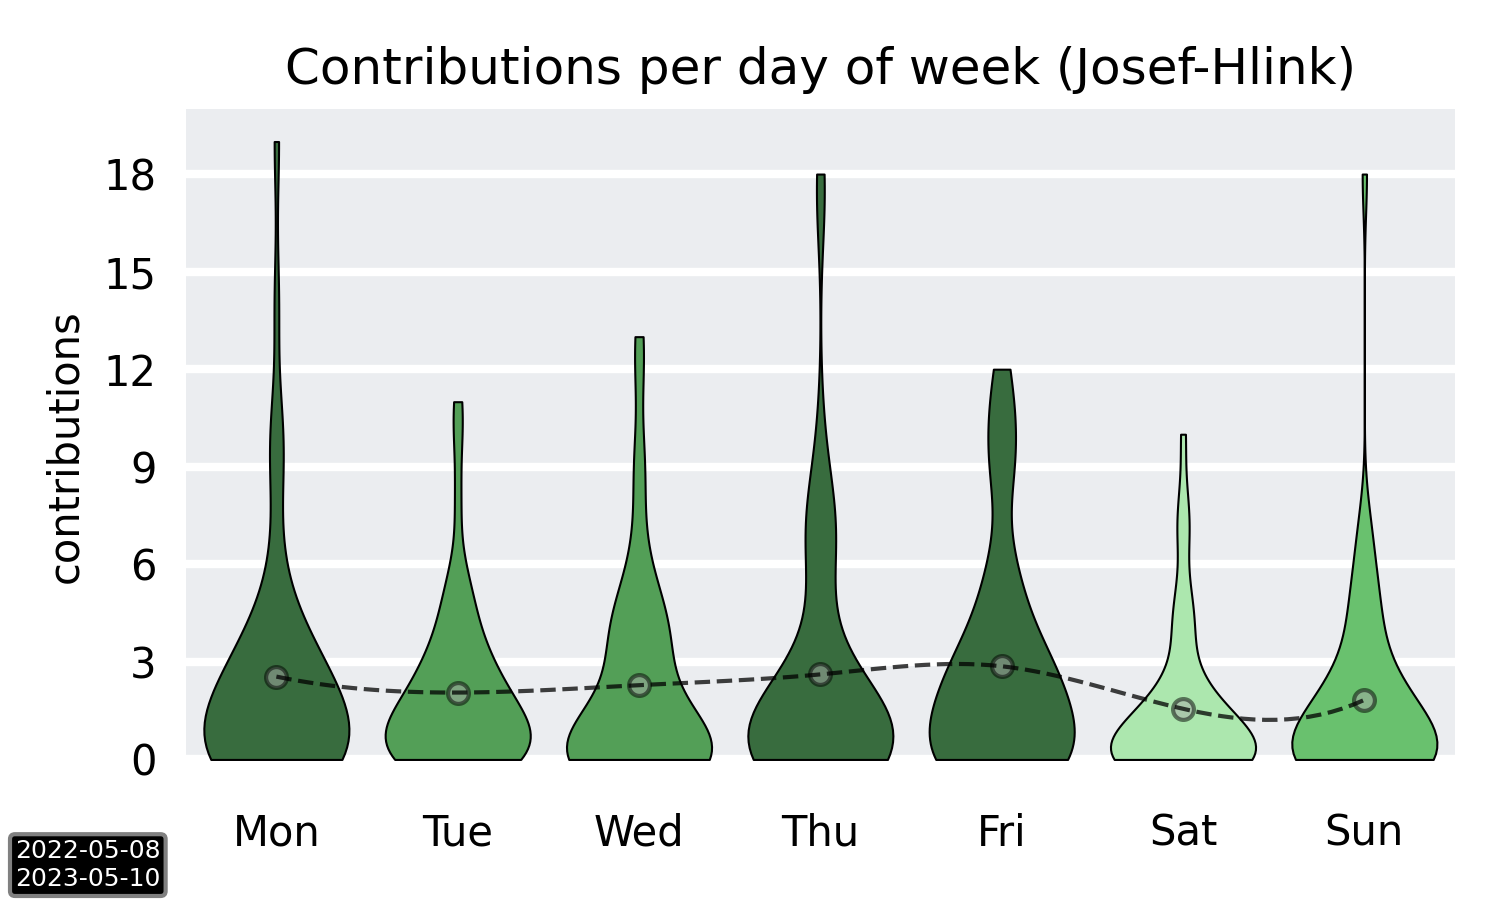
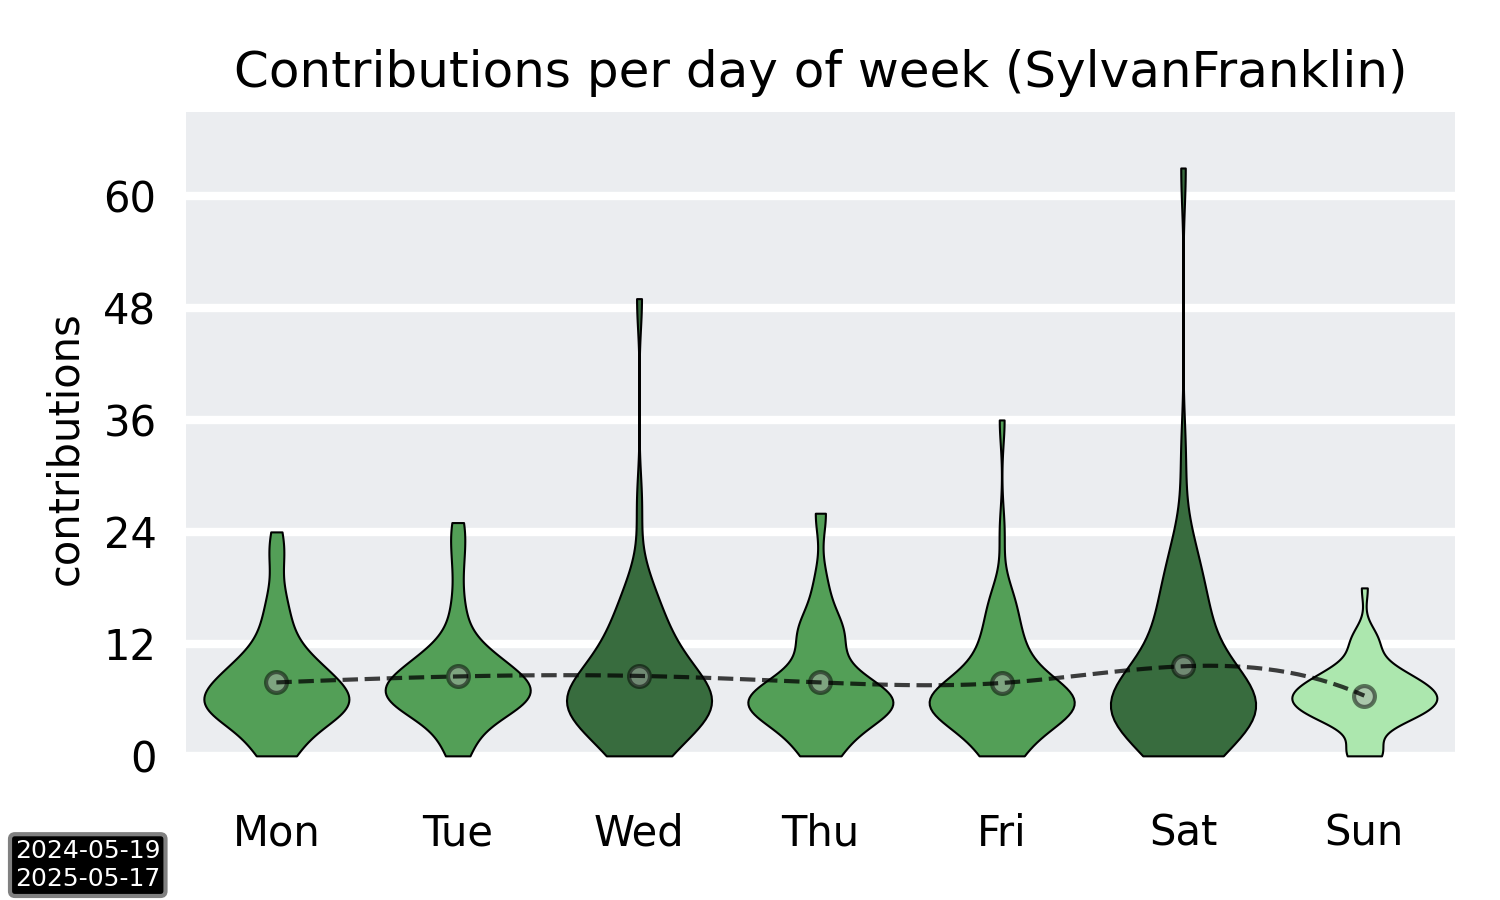
Update
it works again. github changed their frontend class stuff.
also were using selenium now (and i put some ruff stuff in place)

diff --git a/main.py b/main.py
@@ -1,6 +1,8 @@
+import time
 import argparse
 import requests
 from bs4 import BeautifulSoup
+from selenium import webdriver
 import pandas as pd
 import numpy as np
 import matplotlib.pyplot as plt
@@ -28,22 +30,34 @@ def get_contributions(username: str) -> pd.DataFrame:
     
     # get contribution graph data
     url = f'https://github.com/{username}'
-    html = requests.get(url).text
+    options = webdriver.ChromeOptions()
+    options.add_argument('--headless')  # Run browser in headless mode
+    driver = webdriver.Chrome(options=options)
+    driver.get(url)
+    time.sleep(3)
+    html = driver.page_source
+    driver.quit()
+
     if html == 'Not Found':
         raise ValueError(f'User "{username}" not found on GitHub')
     soup = BeautifulSoup(html, 'html.parser')
     graph = soup.find('div', {'class': 'js-yearly-contributions'})
-    data = graph.find_all('rect', {'class': 'ContributionCalendar-day'})
+    if not graph:
+        raise ValueError(f'Contribution graph not found for user: {username}')
+    data = graph.find_all('td', {'class': 'ContributionCalendar-day'})
 
     contributions = pd.DataFrame(columns=['contributions'], dtype='int64')
     contributions.index.name = 'date'
 
     for item in data:
-        if not item.text: continue
-        n_contributions = int(first) if (first := item.text.split(' ')[0]) != 'No' else 0
         date = item.get('data-date')
-        if date:
-            contributions.loc[date] = n_contributions
+        tooltip_id = item.get('aria-labelledby')
+        tooltip = soup.find(id=tooltip_id)
+        if not tooltip:
+            raise ValueError(f'Tooltip with id {tooltip_id} not found')
+        tooltip_text = tooltip.get_text(strip=True)
+        n_contributions = int(first) if (first := tooltip_text.split(' ')[0]) != 'No' else 0
+        contributions.loc[date] = n_contributions
     
     # check if plotting will work
     if contributions['contributions'].max() == 0:
